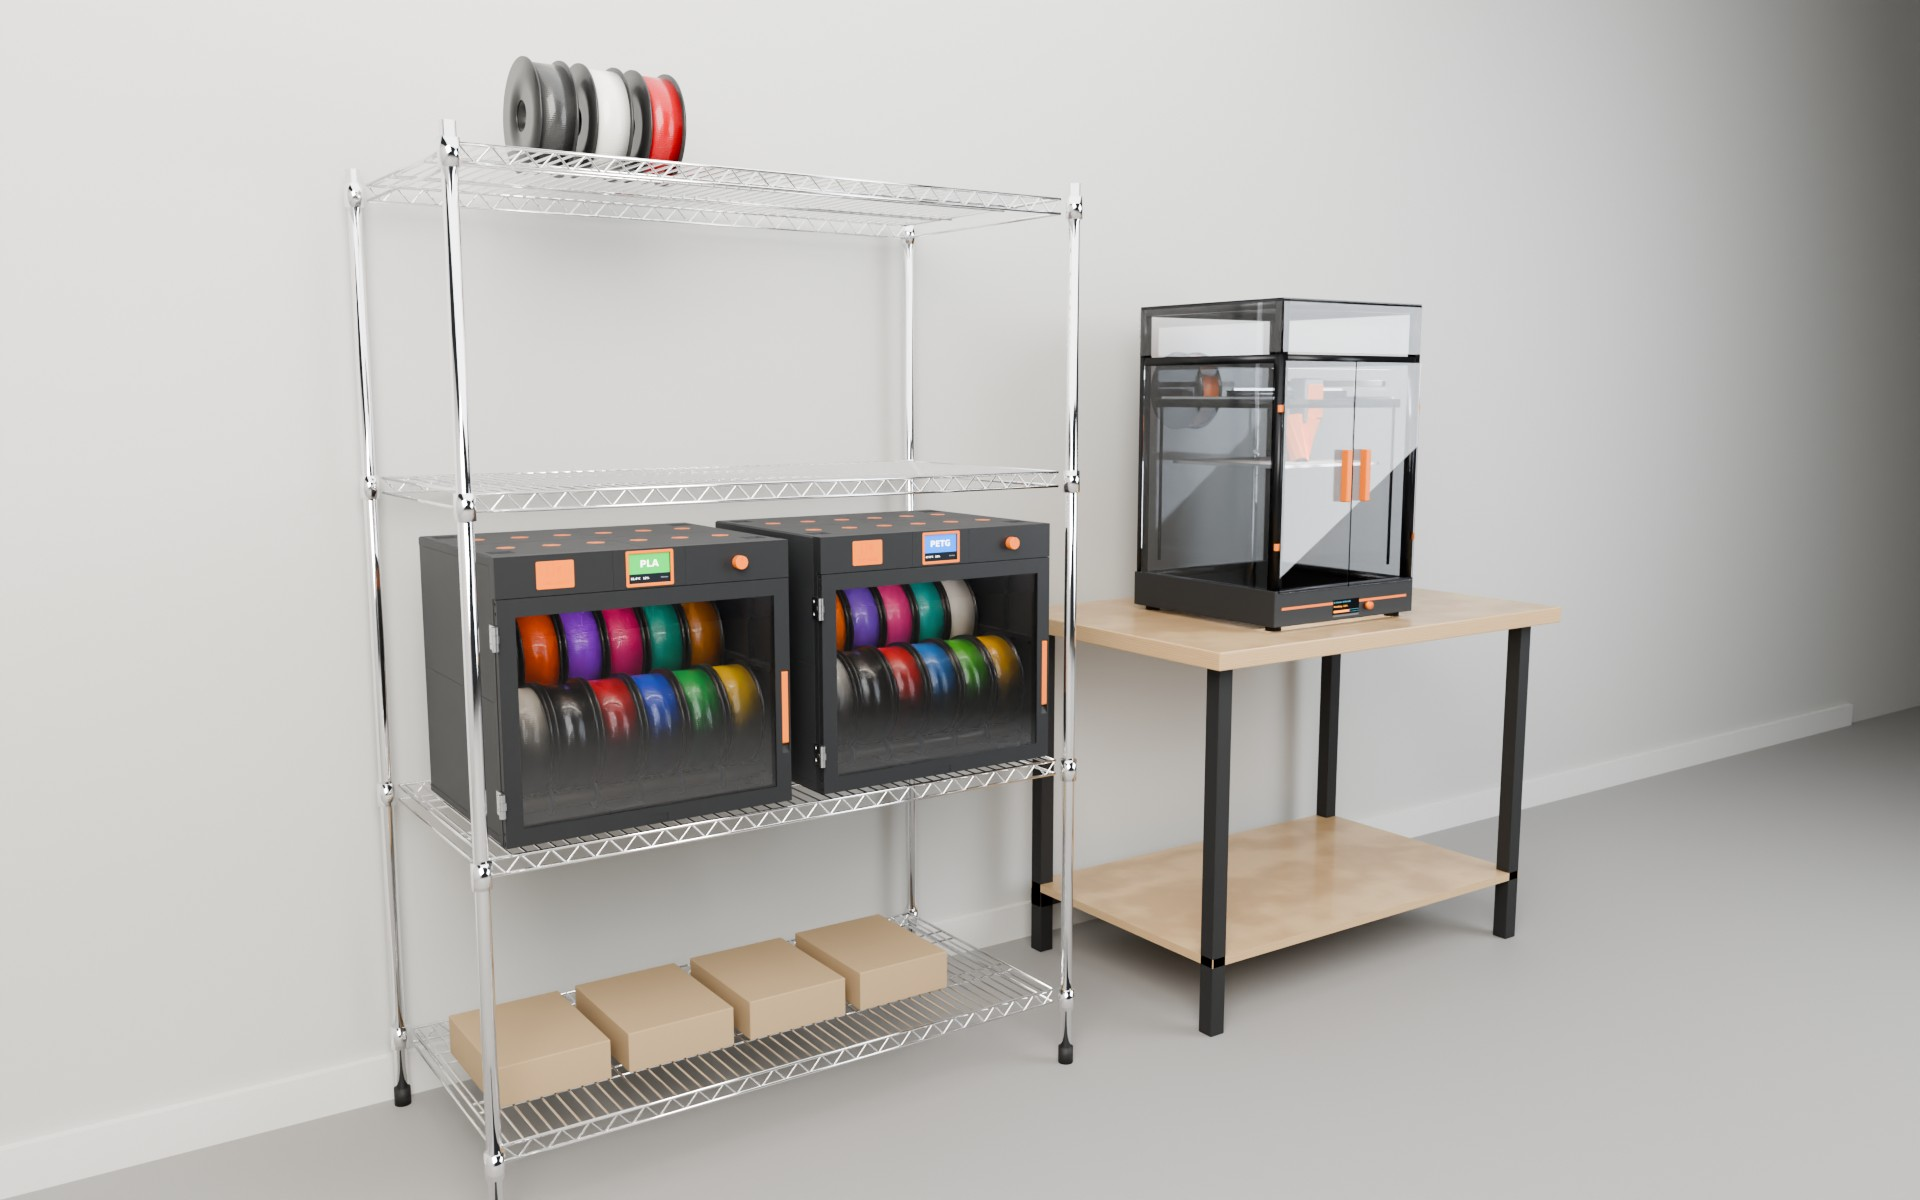
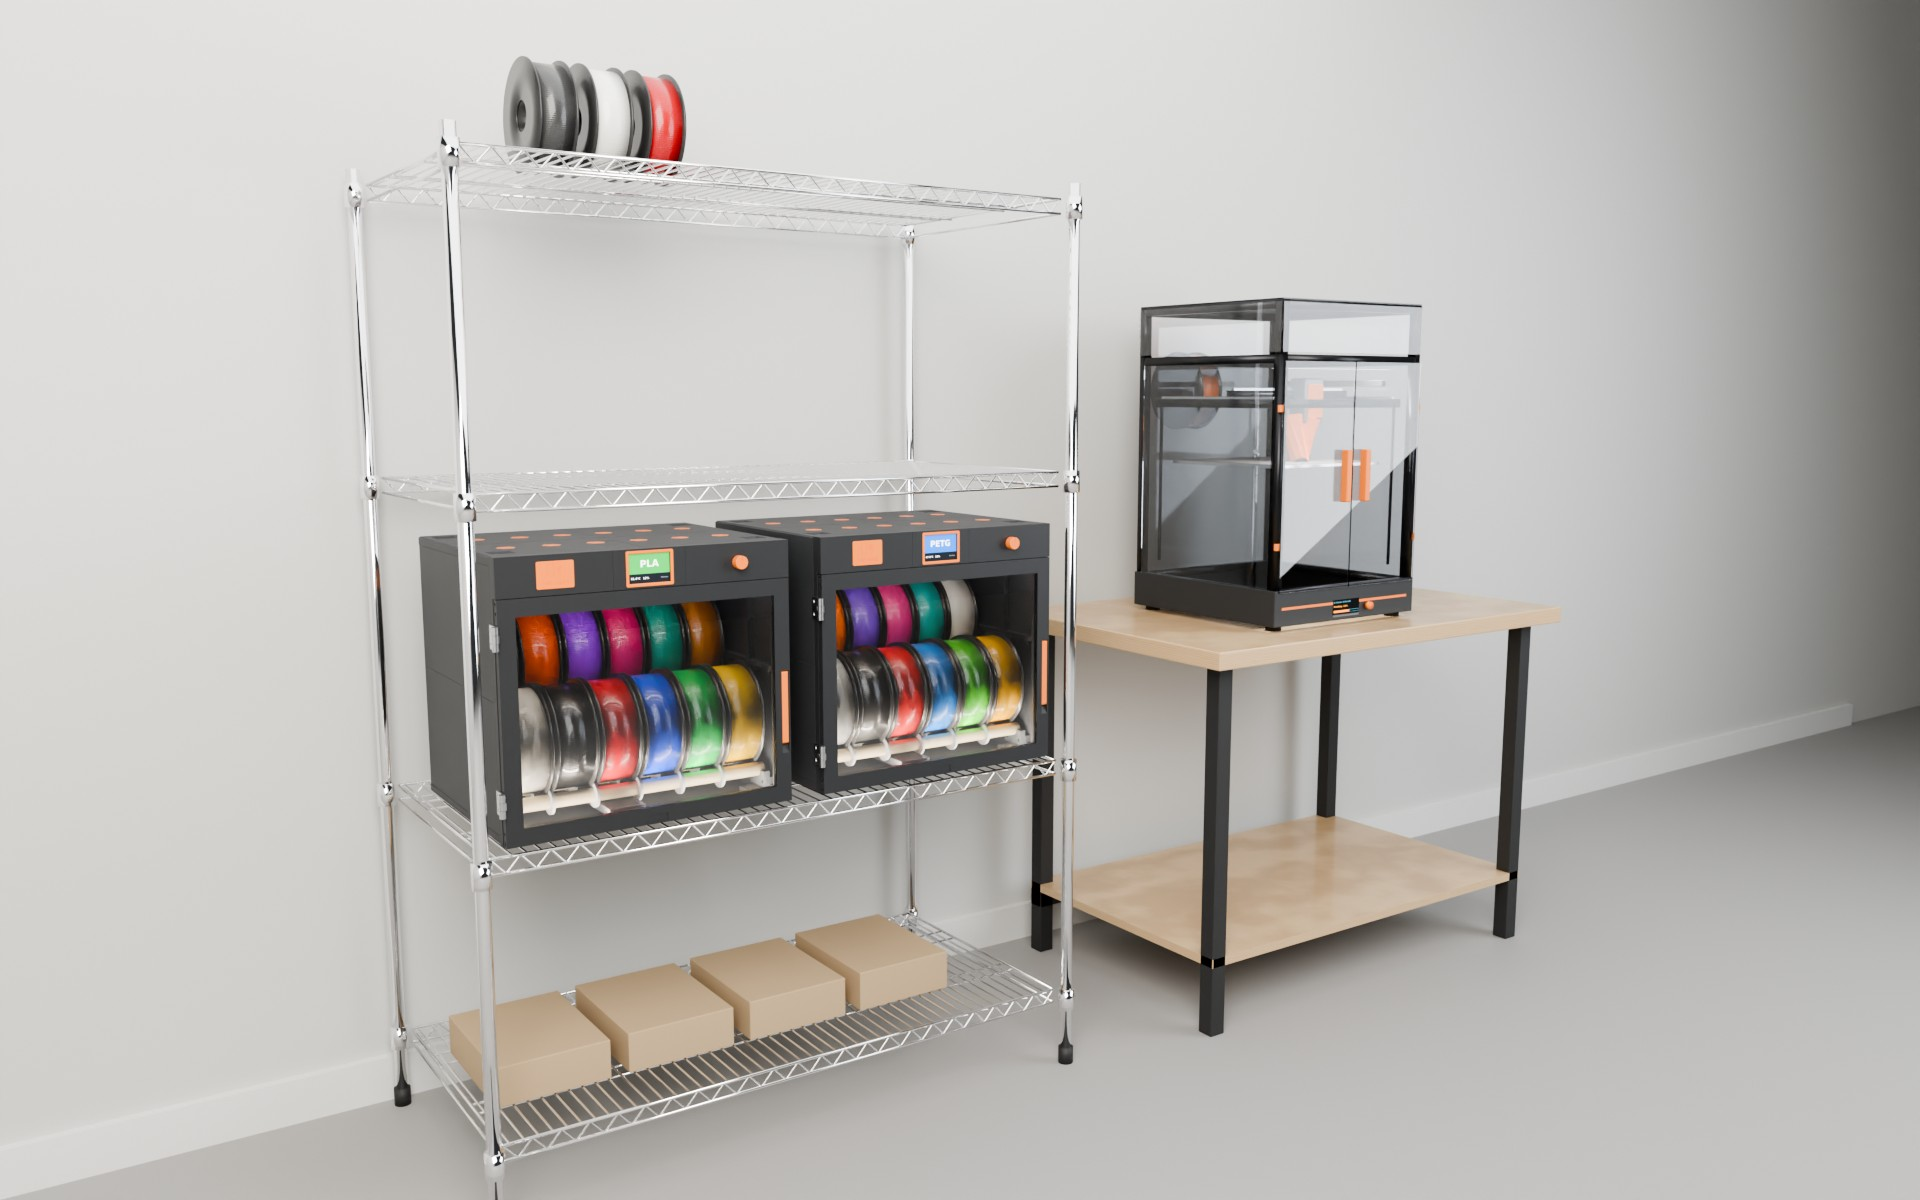
filament-dry-cabinet: photoreal shelf render and thumbnail with the bottom LED strip
Claude-Session: https://claude.ai/code/session_01Fr6xhM7DESu9XfqMuZQkwi

Changed region(s): [[0.25, 0.5858, 0.4062, 0.7092], [0.4375, 0.555, 0.5625, 0.6475]]

diff --git a/models/filament-dry-cabinet/source/render/photo/scene.py b/models/filament-dry-cabinet/source/render/photo/scene.py
@@ -246,6 +246,11 @@ def cabinet(name, x, y, z, label):
     bpy.ops.object.light_add(type='AREA', location=(x + CAB_W/2, y + 0.06, z + 0.405))
     L = bpy.context.object; L.data.shape = 'RECTANGLE'; L.data.size = 0.46; L.data.size_y = 0.012
     L.data.energy = 9; L.data.color = (1.0, 0.86, 0.70); L.rotation_euler = (math.radians(180), 0, 0)
+    # bottom strip (v0.24): two segments on the floor behind the sill, aimed up and back
+    for xa, xb in ((25.7, 190.7), (260.7, 505.7)):
+        bpy.ops.object.light_add(type='AREA', location=(x + (xa + xb)/2*MM, y + 0.036, z + 0.031))
+        L = bpy.context.object; L.data.shape = 'RECTANGLE'; L.data.size = (xb - xa)*MM; L.data.size_y = 0.010
+        L.data.energy = 6 * (xb - xa) / 480; L.data.color = (1.0, 0.86, 0.70); L.rotation_euler = (math.radians(145), 0, 0)
     return root
 
 CY = RY0 + 0.012                                         # door front just behind the shelf's front rail
